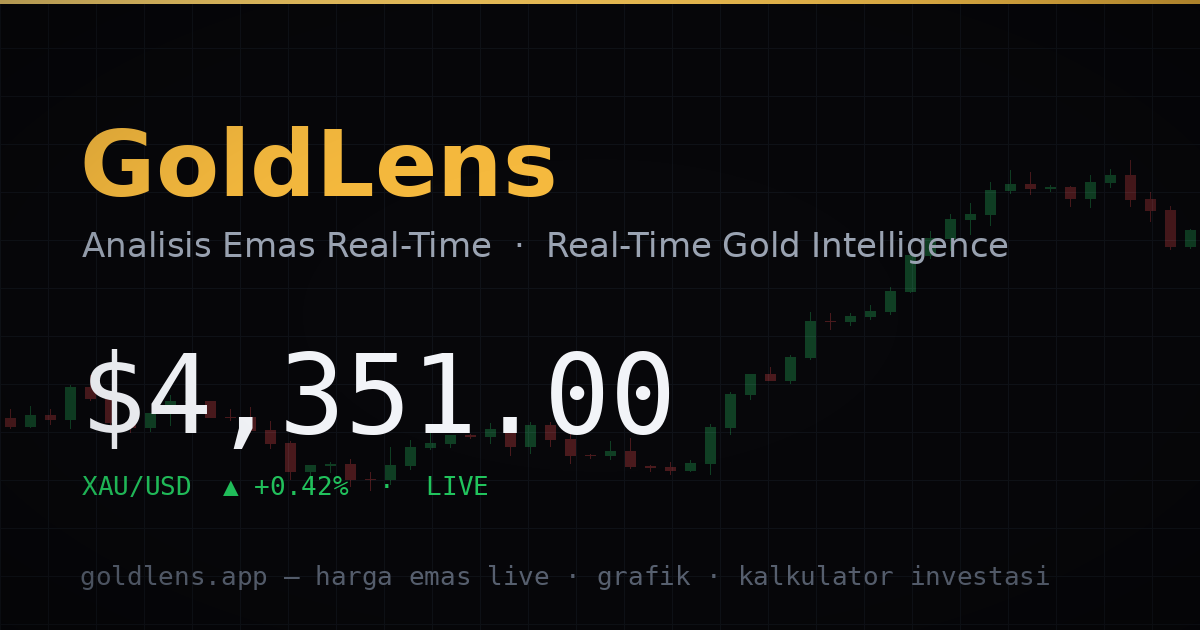
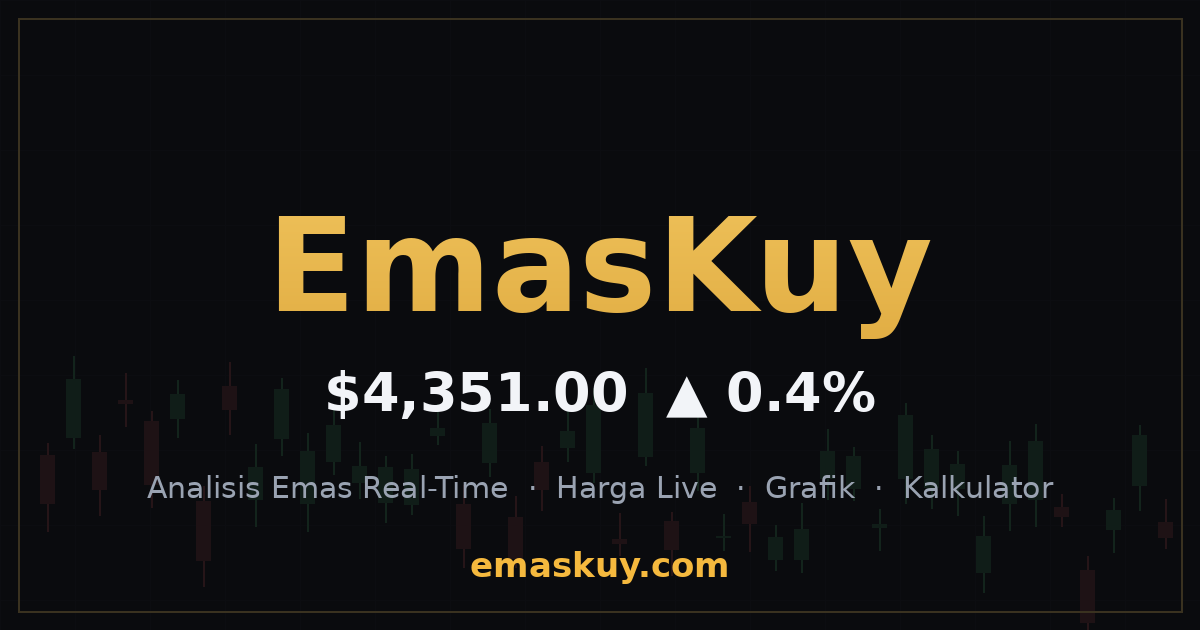
rebrand: GoldLens → EmasKuy (emaskuy.com)

diff --git a/src/lib/about-strings.ts b/src/lib/about-strings.ts
@@ -1,19 +1,19 @@
 /**
- * GoldLens — About / Tentang page strings (about.md).
+ * EmasKuy — About / Tentang page strings (about.md).
  * Bilingual ID/EN pairs registered at module scope.
  */
 import { registerStrings } from '@/lib/i18n';
 
 registerStrings({
   // Section 1 — Hero
-  'about.hero.label': { id: 'Tentang GoldLens', en: 'About GoldLens' },
+  'about.hero.label': { id: 'Tentang EmasKuy', en: 'About EmasKuy' },
   'about.hero.title': {
     id: 'Data emas yang bisa Anda percaya',
     en: 'Gold data you can trust',
   },
   'about.hero.body': {
-    id: 'GoldLens menggabungkan harga emas real-time, kurs mata uang resmi, dan data historis bank sentral menjadi satu dasbor analisis yang transparan.',
-    en: 'GoldLens combines real-time gold prices, official FX rates, and central-bank historical data into one transparent analysis dashboard.',
+    id: 'EmasKuy menggabungkan harga emas real-time, kurs mata uang resmi, dan data historis bank sentral menjadi satu dasbor analisis yang transparan.',
+    en: 'EmasKuy combines real-time gold prices, official FX rates, and central-bank historical data into one transparent analysis dashboard.',
   },
   'about.hero.scroll': { id: 'Gulir', en: 'Scroll' },
 
@@ -68,8 +68,8 @@ registerStrings({
     en: 'Frequently asked questions',
   },
   'about.faq.1.q': {
-    id: 'Apakah harga di GoldLens real-time?',
-    en: 'Is GoldLens pricing real-time?',
+    id: 'Apakah harga di EmasKuy real-time?',
+    en: 'Is EmasKuy pricing real-time?',
   },
   'about.faq.1.a': {
     id: 'Ya, harga diperbarui dengan polling setiap 30 detik. Ada jeda kecil dibanding pasar spot karena sifat API publik.',
@@ -80,8 +80,8 @@ registerStrings({
     en: 'Why does IDR/gram differ from jewelry stores?',
   },
   'about.faq.2.a': {
-    id: 'GoldLens menampilkan harga spot murni tanpa spread pedagang, ongkos pembuatan, atau pajak. Harga toko selalu lebih tinggi.',
-    en: 'GoldLens shows pure spot prices excluding dealer spread, making charges, and taxes. Retail prices are always higher.',
+    id: 'EmasKuy menampilkan harga spot murni tanpa spread pedagang, ongkos pembuatan, atau pajak. Harga toko selalu lebih tinggi.',
+    en: 'EmasKuy shows pure spot prices excluding dealer spread, making charges, and taxes. Retail prices are always higher.',
   },
   'about.faq.3.q': {
     id: 'Dari mana data grafik historis?',
@@ -99,7 +99,7 @@ registerStrings({
     id: 'Tidak. Kalkulator hanyalah simulasi dengan asumsi tetap — bukan prediksi maupun janji hasil.',
     en: 'No. The calculator is a fixed-assumption simulation — neither a prediction nor a promise of returns.',
   },
-  'about.faq.5.q': { id: 'Apakah GoldLens gratis?', en: 'Is GoldLens free?' },
+  'about.faq.5.q': { id: 'Apakah EmasKuy gratis?', en: 'Is EmasKuy free?' },
   'about.faq.5.a': {
     id: 'Ya, 100% gratis. Semua data berasal dari API publik yang terbuka.',
     en: 'Yes, 100% free. All data comes from open public APIs.',
@@ -109,12 +109,12 @@ registerStrings({
   'about.disclaimer.label': { id: 'Disclaimer', en: 'Disclaimer' },
   'about.disclaimer.title': { id: 'Bukan nasihat keuangan', en: 'Not financial advice' },
   'about.disclaimer.body': {
-    id: 'Seluruh konten di GoldLens — termasuk harga, grafik, artikel analisis, dan hasil kalkulator — disediakan hanya untuk tujuan informasi dan edukasi, dan bukan merupakan nasihat keuangan, investasi, atau perdagangan. Data dapat tertunda atau tidak akurat; harga yang ditampilkan adalah harga spot indikatif. Selalu verifikasi harga dengan penyedia resmi sebelum bertransaksi. Kinerja masa lalu tidak menjamin hasil di masa depan.',
-    en: 'All GoldLens content — including prices, charts, analysis articles, and calculator results — is provided for informational and educational purposes only and does not constitute financial, investment, or trading advice. Data may be delayed or inaccurate; displayed prices are indicative spot prices. Always verify prices with an official provider before transacting. Past performance does not guarantee future results.',
+    id: 'Seluruh konten di EmasKuy — termasuk harga, grafik, artikel analisis, dan hasil kalkulator — disediakan hanya untuk tujuan informasi dan edukasi, dan bukan merupakan nasihat keuangan, investasi, atau perdagangan. Data dapat tertunda atau tidak akurat; harga yang ditampilkan adalah harga spot indikatif. Selalu verifikasi harga dengan penyedia resmi sebelum bertransaksi. Kinerja masa lalu tidak menjamin hasil di masa depan.',
+    en: 'All EmasKuy content — including prices, charts, analysis articles, and calculator results — is provided for informational and educational purposes only and does not constitute financial, investment, or trading advice. Data may be delayed or inaccurate; displayed prices are indicative spot prices. Always verify prices with an official provider before transacting. Past performance does not guarantee future results.',
   },
   'about.contact.label': { id: 'Kontak', en: 'Contact' },
   'about.copyright': {
-    id: '© 2026 GoldLens · Dibangun dengan data terbuka',
-    en: '© 2026 GoldLens · Built on open data',
+    id: '© 2026 EmasKuy · Dibangun dengan data terbuka',
+    en: '© 2026 EmasKuy · Built on open data',
   },
 });

diff --git a/src/data/articles.ts b/src/data/articles.ts
@@ -1,5 +1,5 @@
 /**
- * GoldLens — shared article dataset.
+ * EmasKuy — shared article dataset.
  *
  * Consumed by the home preview (3 newest) and the analysis page (full index
  * + in-app reader). Each article carries a structured bilingual body
@@ -44,7 +44,7 @@ export interface Article {
   author: { id: string; en: string };
 }
 
-const TEAM = { id: 'Tim GoldLens', en: 'GoldLens Team' };
+const TEAM = { id: 'Tim EmasKuy', en: 'EmasKuy Team' };
 
 export const ARTICLES: Article[] = [
   {
@@ -218,8 +218,8 @@ export const ARTICLES: Article[] = [
             en: 'The practical rules are simple: pick a comfortable monthly amount (ideally 5–10% of income), choose a fixed date, and never skip it for market reasons. Skip only for personal reasons — the emergency fund always comes first. Review the portfolio once a year, not every day.',
           },
           {
-            id: 'Gunakan kalkulator GoldLens untuk mensimulasikan skenario Anda sendiri dengan harga emas live hari ini, termasuk asumsi kurs USD/IDR dan horizon waktu. Angka konkret jauh lebih meyakinkan daripada artikel mana pun — termasuk artikel ini.',
-            en: 'Use the GoldLens calculator to simulate your own scenario with today’s live gold price, including USD/IDR assumptions and time horizon. Concrete numbers are far more convincing than any article — including this one.',
+            id: 'Gunakan kalkulator EmasKuy untuk mensimulasikan skenario Anda sendiri dengan harga emas live hari ini, termasuk asumsi kurs USD/IDR dan horizon waktu. Angka konkret jauh lebih meyakinkan daripada artikel mana pun — termasuk artikel ini.',
+            en: 'Use the EmasKuy calculator to simulate your own scenario with today’s live gold price, including USD/IDR assumptions and time horizon. Concrete numbers are far more convincing than any article — including this one.',
           },
         ],
       },

diff --git a/src/lib/i18n.tsx b/src/lib/i18n.tsx
@@ -1,5 +1,5 @@
 /**
- * GoldLens — i18n context (design.md §8).
+ * EmasKuy — i18n context (design.md §8).
  *
  * Lightweight dictionary-based i18n. Page agents add their own keys by
  * calling `registerStrings({ ... })` once at module scope in their own files,
@@ -64,15 +64,15 @@ registerStrings({
     en: 'Price data: gold-api.com · FX: Frankfurter · Historical: NBP',
   },
   'footer.disclaimer': {
-    id: 'Konten di GoldLens hanya untuk tujuan informasi dan edukasi — bukan nasihat keuangan. Data dapat tertunda. Kinerja masa lalu tidak menjamin hasil di masa depan.',
-    en: 'GoldLens content is for informational and educational purposes only — not financial advice. Data may be delayed. Past performance does not guarantee future results.',
+    id: 'Konten di EmasKuy hanya untuk tujuan informasi dan edukasi — bukan nasihat keuangan. Data dapat tertunda. Kinerja masa lalu tidak menjamin hasil di masa depan.',
+    en: 'EmasKuy content is for informational and educational purposes only — not financial advice. Data may be delayed. Past performance does not guarantee future results.',
   },
   'footer.navigate': { id: 'Navigasi', en: 'Navigate' },
   'footer.legal': { id: 'Legal', en: 'Legal' },
 });
 
-const LANG_KEY = 'goldlens.lang';
-const UNIT_KEY = 'goldlens.unit';
+const LANG_KEY = 'emaskuy.lang';
+const UNIT_KEY = 'emaskuy.unit';
 
 function detectLang(): Lang {
   try {

diff --git a/index.html b/index.html
@@ -4,8 +4,8 @@
     <meta charset="UTF-8" />
     <meta name="viewport" content="width=device-width, initial-scale=1.0" />
     <link rel="icon" type="image/svg+xml" href="/logo.svg" />
-    <meta name="description" content="GoldLens — Analisis emas real-time: harga emas live, grafik interaktif, artikel analisis pasar, dan kalkulator investasi emas. Real-time gold intelligence." />
-    <meta property="og:title" content="GoldLens — Analisis Emas Real-Time" />
+    <meta name="description" content="EmasKuy — Analisis emas real-time: harga emas live, grafik interaktif, artikel analisis pasar, dan kalkulator investasi emas. Real-time gold intelligence." />
+    <meta property="og:title" content="EmasKuy — Analisis Emas Real-Time" />
     <meta property="og:description" content="Harga emas live, grafik interaktif, analisis pasar, dan kalkulator investasi emas." />
     <meta property="og:image" content="/og-cover.png" />
     <meta property="og:type" content="website" />
@@ -15,7 +15,7 @@
       href="https://fonts.googleapis.com/css2?family=Inter:wght@400;500;600&family=JetBrains+Mono:wght@400;500;600;700&family=Space+Grotesk:wght@500;600;700&display=swap"
       rel="stylesheet"
     />
-    <title>GoldLens — Analisis Emas Real-Time</title>
+    <title>EmasKuy — Analisis Emas Real-Time</title>
   </head>
   <body>
     <div id="root"></div>

diff --git a/src/components/Footer.tsx b/src/components/Footer.tsx
@@ -21,8 +21,8 @@ export function Footer() {
       <div className="mx-auto grid max-w-[1440px] gap-8 px-4 py-10 md:grid-cols-3 md:px-6">
         <div>
           <div className="flex items-center gap-2.5">
-            <img src="/logo.svg" alt="GoldLens" className="h-6 w-6" />
-            <span className="font-display text-base font-bold text-t1">GoldLens</span>
+            <img src="/logo.svg" alt="EmasKuy" className="h-6 w-6" />
+            <span className="font-display text-base font-bold text-t1">EmasKuy</span>
           </div>
           <p className="mt-3 max-w-xs text-sm leading-[1.5] text-t2">{t('footer.tagline')}</p>
           <p className="mt-3 font-mono text-[13px] tabular text-t3">{t('footer.sources')}</p>
@@ -51,7 +51,7 @@ export function Footer() {
       </div>
       <div className="border-t border-hairline">
         <div className="mx-auto flex max-w-[1440px] items-center justify-between px-4 py-4 md:px-6">
-          <span className="font-mono text-xs tabular text-t3">© 2026 GoldLens</span>
+          <span className="font-mono text-xs tabular text-t3">© 2026 EmasKuy</span>
           <span className="flex items-center gap-1.5 font-mono text-xs tabular text-t3">
             <span
               className="h-2 w-2 rounded-full"

diff --git a/src/components/Navbar.tsx b/src/components/Navbar.tsx
@@ -68,9 +68,9 @@ export function Navbar() {
         <div className="mx-auto flex h-full max-w-[1440px] items-center gap-4 px-4 md:px-6">
           {/* Left: logo + wordmark + status */}
           <Link to="/" className="flex shrink-0 items-center gap-2.5">
-            <img src="/logo.svg" alt="GoldLens" className="h-7 w-7" />
+            <img src="/logo.svg" alt="EmasKuy" className="h-7 w-7" />
             <span className="font-display text-lg font-bold tracking-[-0.02em] text-t1">
-              GoldLens
+              EmasKuy
             </span>
             <span
               className={cn(
@@ -176,8 +176,8 @@ export function Navbar() {
             >
               <div className="flex items-center justify-between">
                 <div className="flex items-center gap-2">
-                  <img src="/logo.svg" alt="GoldLens" className="h-6 w-6" />
-                  <span className="font-display font-bold text-t1">GoldLens</span>
+                  <img src="/logo.svg" alt="EmasKuy" className="h-6 w-6" />
+                  <span className="font-display font-bold text-t1">EmasKuy</span>
                 </div>
                 <button
                   onClick={() => setOpen(false)}

diff --git a/src/hooks/useGoldPrice.ts b/src/hooks/useGoldPrice.ts
@@ -1,5 +1,5 @@
 /**
- * GoldLens — shared live-price store + hook (design.md §10, home.md §0–§1).
+ * EmasKuy — shared live-price store + hook (design.md §10, home.md §0–§1).
  *
  * Implemented as a module-level singleton store (one poller for the whole
  * app) consumed through `useGoldPrice()` — safe to call from Navbar, Home and
@@ -46,7 +46,7 @@ export interface GoldPriceState {
 }
 
 export const POLL_INTERVAL_MS = 30_000;
-const TICKS_KEY = 'goldlens.ticks.xau';
+const TICKS_KEY = 'emaskuy.ticks.xau';
 const TICK_WINDOW_MS = 24 * 60 * 60 * 1000;
 const TICK_MAX = 4000;
 
@@ -107,7 +107,7 @@ function worstStatus(a: DataStatus, b: DataStatus): DataStatus {
 /* derive 24h % from NBP's last two daily closes (scale-invariant).    */
 /* For other metals we fall back to a session baseline.                */
 
-const BASE_KEY = 'goldlens.sessionbase';
+const BASE_KEY = 'emaskuy.sessionbase';
 
 function loadBase(): Record<string, { p: number; at: number }> {
   try {

diff --git a/src/components/about/DisclaimerSection.tsx b/src/components/about/DisclaimerSection.tsx
@@ -51,14 +51,14 @@ export function DisclaimerSection() {
         <div className="mt-8 flex flex-wrap items-center gap-3">
           <span className="label-micro">{t('about.contact.label')}</span>
           <a
-            href="mailto:halo@goldlens.id"
+            href="mailto:halo@emaskuy.com"
             className="inline-flex cursor-pointer items-center gap-2 rounded-lg border border-hairline px-3.5 py-2 text-sm font-medium text-t1 transition-colors duration-150 hover:border-goldline hover:text-gold"
           >
             <Mail className="h-4 w-4" />
-            halo@goldlens.id
+            halo@emaskuy.com
           </a>
           <a
-            href="https://github.com/goldlens"
+            href="https://github.com/emaskuy"
             target="_blank"
             rel="noreferrer"
             aria-label="GitHub"

diff --git a/src/lib/api.ts b/src/lib/api.ts
@@ -1,5 +1,5 @@
 /**
- * GoldLens — data layer (design.md §10).
+ * EmasKuy — data layer (design.md §10).
  *
  * Sources:
  *  - Live metal prices:  https://api.gold-api.com/price/{XAU|XAG|XPT|XPD}  (poll 30s)
@@ -69,7 +69,7 @@ async function fetchJson<T>(url: string): Promise<T> {
 /* localStorage cache                                                  */
 /* ------------------------------------------------------------------ */
 
-const CACHE_PREFIX = 'goldlens.cache.';
+const CACHE_PREFIX = 'emaskuy.cache.';
 
 function cacheSet<T>(key: string, value: T): void {
   try {

diff --git a/src/pages/Calculator.tsx b/src/pages/Calculator.tsx
@@ -126,7 +126,7 @@ export default function CalculatorPage() {
     const money = (v: number) => fmtMoney(v, currency, lang);
     const modeLabel = debounced.mode === 'lump' ? t('calc.mode.lump') : t('calc.mode.dca');
     const lines = [
-      `GoldLens — ${t('calc.results')}`,
+      `EmasKuy — ${t('calc.results')}`,
       `${t('calc.mode')}: ${modeLabel} (${currency.toUpperCase()})`,
       `${t('calc.initial')}: ${money(debounced.initial)}`,
       ...(debounced.mode === 'dca'

diff --git a/src/index.css b/src/index.css
@@ -4,7 +4,7 @@
 
 @layer base {
   :root {
-    /* GoldLens design tokens (design.md §2) */
+    /* EmasKuy design tokens (design.md §2) */
     --bg-0: #0a0b0e;
     --bg-1: #101218;
     --bg-2: #161922;
@@ -21,7 +21,7 @@
     --text-3: #5b6474;
     --info: #5ac8fa;
 
-    /* shadcn/ui token bridge (dark GoldLens theme) */
+    /* shadcn/ui token bridge (dark EmasKuy theme) */
     --background: 225 16% 5%;
     --foreground: 220 24% 96%;
     --card: 223 20% 8%;

diff --git a/src/components/analysis/Newsletter.tsx b/src/components/analysis/Newsletter.tsx
@@ -23,7 +23,7 @@ registerStrings({
   'news.invalid': { id: 'Masukkan alamat email yang valid', en: 'Enter a valid email address' },
 });
 
-const LS_KEY = 'goldlens.newsletter';
+const LS_KEY = 'emaskuy.newsletter';
 
 export function Newsletter() {
   const { t } = useI18n();
